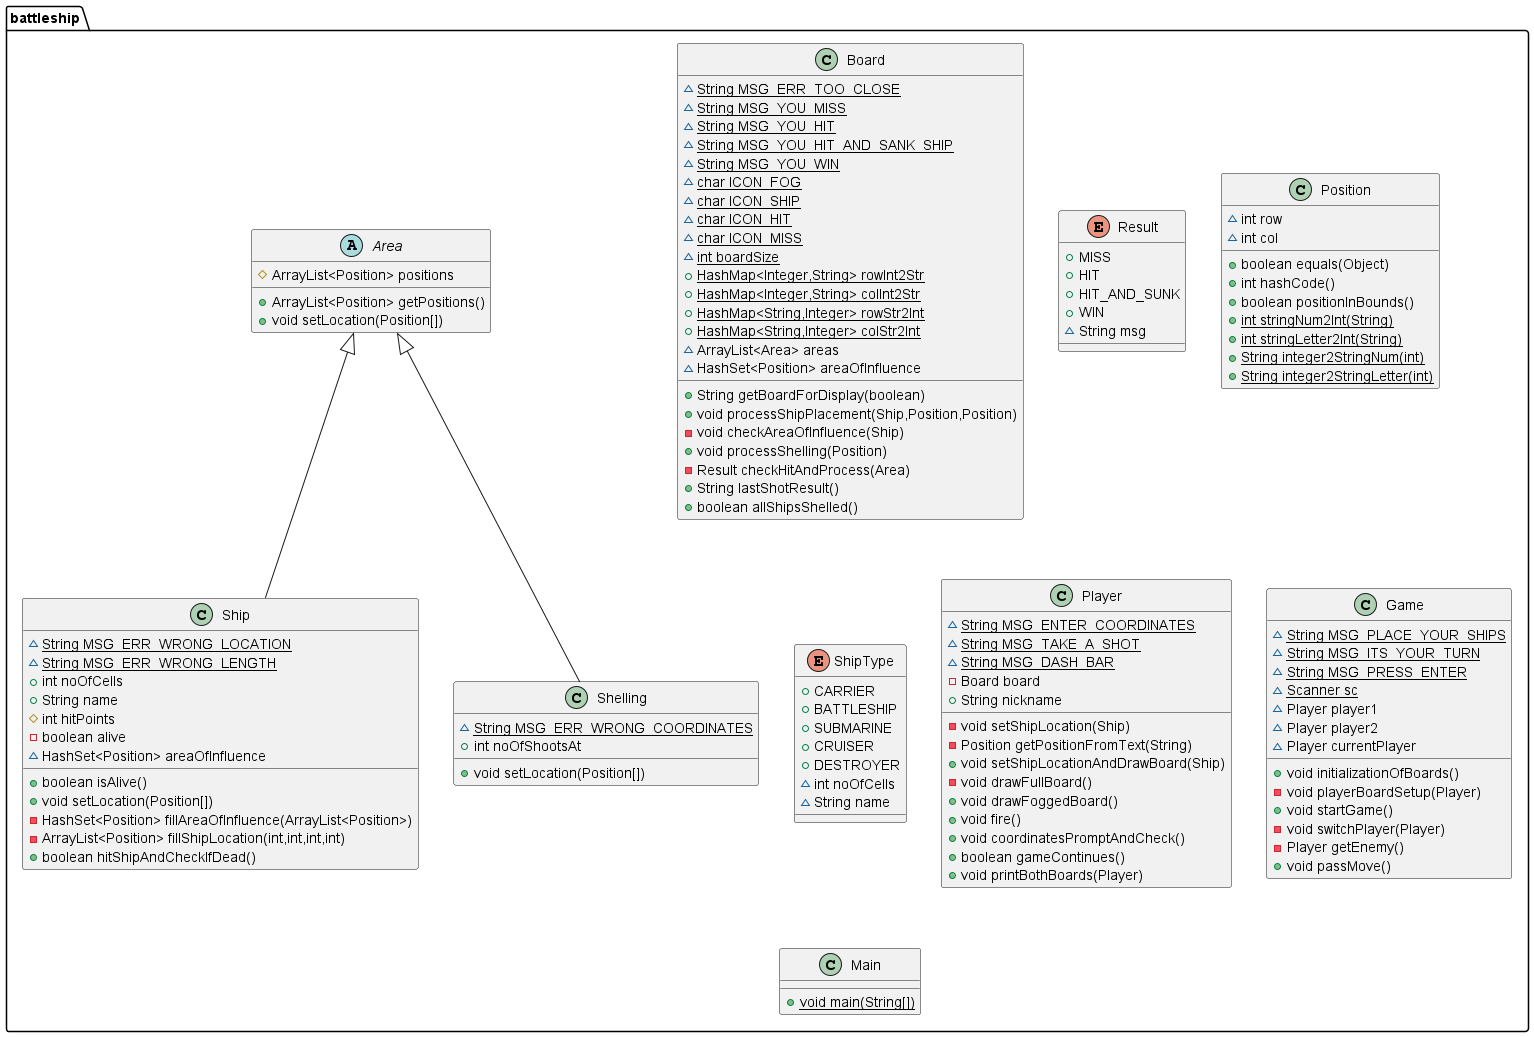
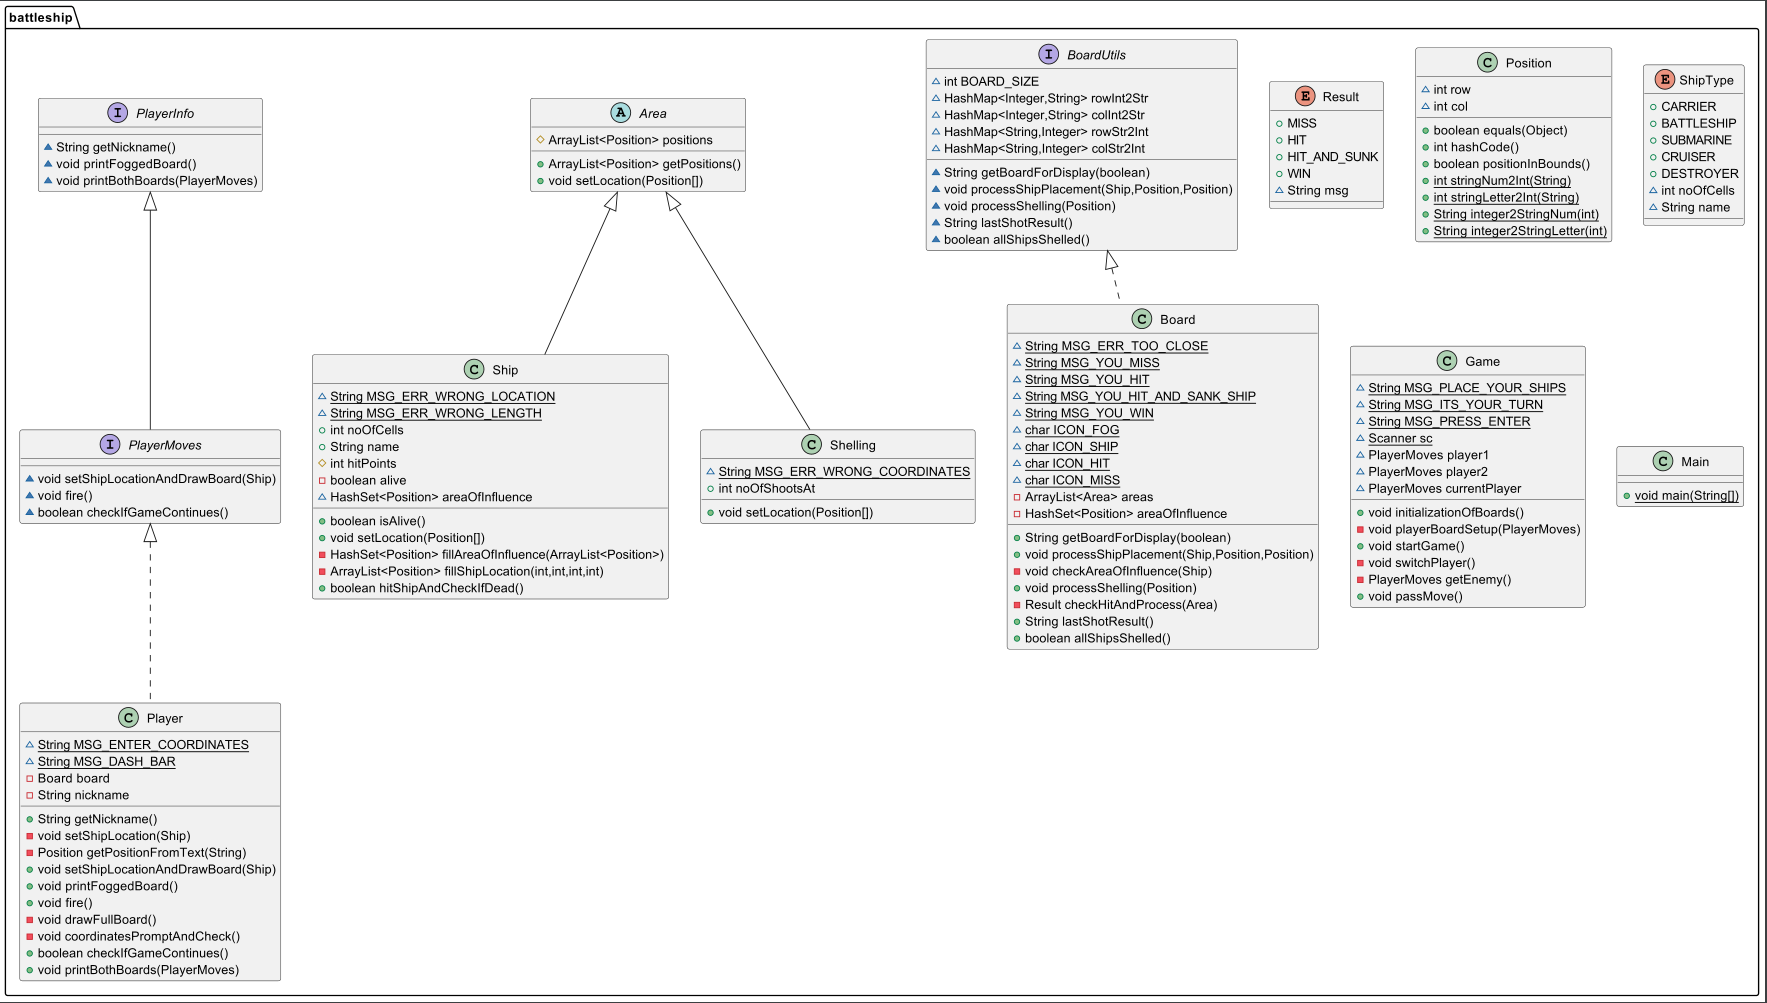
Battleship - Stage 5/5: Friend or foe v5.003 * interfaces introduction for Board and Player classes * diagram update

diff --git a/task/src/battleship/Board.java b/task/src/battleship/Board.java
@@ -2,7 +2,47 @@ package battleship;
 
 import java.util.*;
 
-public class Board {
+interface BoardUtils {
+    int BOARD_SIZE = 10;
+
+    HashMap<Integer, String> rowInt2Str = new HashMap<>() {
+        {
+            for (int i = 0; i < BOARD_SIZE; i++) {
+                put(i, String.valueOf((char) (i + 'A')));
+            }
+        }
+    };
+    HashMap<Integer, String> colInt2Str = new HashMap<>() {
+        {
+            for (int i = 0; i < BOARD_SIZE; i++) {
+                put(i, String.valueOf(i + 1));
+            }
+        }
+    };
+
+    HashMap<String, Integer> rowStr2Int = new HashMap<>() {
+        {
+            for (int i = 0; i < BOARD_SIZE; i++) {
+                put(String.valueOf((char) (i + 'A')), i);
+            }
+        }
+    };
+    HashMap<String, Integer> colStr2Int = new HashMap<>() {
+        {
+            for (int i = 0; i < BOARD_SIZE; i++) {
+                put(String.valueOf(i + 1), i);
+            }
+        }
+    };
+
+    String getBoardForDisplay(boolean fog);
+    void processShipPlacement(Ship ship, Position beginning, Position end);
+    void processShelling(Position coordinates);
+    String lastShotResult();
+    boolean allShipsShelled();
+}
+
+public class Board implements BoardUtils {
 
     //------------------------------------------------------------------------------------------------------------------
     //--STATICS---------------------------------------------------------------------------------------------------------
@@ -17,43 +57,11 @@ public class Board {
     final static char ICON_HIT = 'X';
     final static char ICON_MISS = 'M';
 
-    static final int BOARD_SIZE = 10;
-
-    public static final HashMap<Integer, String> rowInt2Str = new HashMap<>() {
-        {
-            for (int i = 0; i < BOARD_SIZE; i++) {
-                put(i, String.valueOf((char) (i + 'A')));
-            }
-        }
-    };
-    public static final HashMap<Integer, String> colInt2Str = new HashMap<>() {
-        {
-            for (int i = 0; i < BOARD_SIZE; i++) {
-                put(i, String.valueOf(i + 1));
-            }
-        }
-    };
-
-    public static final HashMap<String, Integer> rowStr2Int = new HashMap<>() {
-        {
-            for (int i = 0; i < BOARD_SIZE; i++) {
-                put(String.valueOf((char) (i + 'A')), i);
-            }
-        }
-    };
-    public static final HashMap<String, Integer> colStr2Int = new HashMap<>() {
-        {
-            for (int i = 0; i < BOARD_SIZE; i++) {
-                put(String.valueOf(i + 1), i);
-            }
-        }
-    };
-
     //-----------------------------------------------------------------------------------------------------------------
     //--Main stuff -------------------------------------------------------------------------------------------
     //------------------------------------------------------------------------------------------------------------------
-    ArrayList<Area> areas;
-    HashSet<Position> areaOfInfluence;
+    private final ArrayList<Area> areas;
+    private final HashSet<Position> areaOfInfluence;
 
 
     Board() {
@@ -61,6 +69,7 @@ public class Board {
         areaOfInfluence = new HashSet<>();
     }
 
+    @Override
     public String getBoardForDisplay(boolean fog) {
 
         char[][] display = new char[Board.BOARD_SIZE][Board.BOARD_SIZE];
@@ -107,6 +116,7 @@ public class Board {
         return output.toString();
     }
 
+    @Override
     public void processShipPlacement(Ship ship, Position beginning, Position end) {
         ship.setLocation(new Position[]{beginning, end});
         checkAreaOfInfluence(ship);
@@ -122,6 +132,7 @@ public class Board {
         }
     }
 
+    @Override
     public void processShelling(Position coordinates) {
         List<Shelling> location = areas.stream()
                 .filter(a -> a instanceof Shelling)
@@ -160,11 +171,12 @@ public class Board {
         return Result.MISS;
     }
 
-
+    @Override
     public String lastShotResult() {
         return checkHitAndProcess(areas.get(areas.size() - 1)).msg;
     }
 
+    @Override
     public boolean allShipsShelled() {
         return areas.stream().filter(a -> a instanceof Ship).noneMatch(s -> ((Ship) s).isAlive());
     }

diff --git a/task/src/battleship/Player.java b/task/src/battleship/Player.java
@@ -2,13 +2,30 @@ package battleship;
 
 import java.util.Scanner;
 
-public class Player {
+interface PlayerInfo {
+    String getNickname();
+    void printFoggedBoard();
+    void printBothBoards(PlayerMoves enemy);
+}
+
+interface PlayerMoves extends PlayerInfo {
+    void setShipLocationAndDrawBoard(Ship ship);
+    void fire();
+    boolean checkIfGameContinues();
+}
+
+public class Player implements PlayerMoves {
     static final String MSG_ENTER_COORDINATES = "Enter the coordinates of the %s (%d cells):";
     static final String MSG_DASH_BAR = "---------------------";
 
 
-    private final Board board;
-    public final String nickname;
+    private final BoardUtils board;
+    private final String nickname;
+
+    @Override
+    public String getNickname() {
+        return nickname;
+    }
 
     Player(String name) {
         this.board = new Board();
@@ -38,46 +55,51 @@ public class Player {
         );
     }
 
+    @Override
     public void setShipLocationAndDrawBoard(Ship ship) {
         setShipLocation(ship);
         drawFullBoard();
     }
 
-    private void drawFullBoard() {
-        System.out.println(board.getBoardForDisplay(false));
-    }
-
-    public void drawFoggedBoard() {
+    @Override
+    public void printFoggedBoard() {
         System.out.println(board.getBoardForDisplay(true));
     }
 
-
+    @Override
     public void fire() {
         coordinatesPromptAndCheck();
         String result = board.lastShotResult();
         System.out.println(result);
     }
 
+    private void drawFullBoard() {
+        System.out.println(board.getBoardForDisplay(false));
+    }
+
+
     // Uncomment the below code to have a chance to correct fire when incorrect location was set
-    public void coordinatesPromptAndCheck() {
+    private void coordinatesPromptAndCheck() {
 //        while (true) {
-            try {
-                String coordinates = Game.sc.nextLine().trim();
-                Position position = getPositionFromText(coordinates);
-                board.processShelling(position);
+        try {
+            String coordinates = Game.sc.nextLine().trim();
+            Position position = getPositionFromText(coordinates);
+            board.processShelling(position);
 //                break;
-            } catch (IllegalArgumentException e) {
-                //System.out.println(e.getMessage());
-            }
+        } catch (IllegalArgumentException e) {
+            //System.out.println(e.getMessage());
+        }
 //        }
     }
 
-    public boolean gameContinues() {
+    @Override
+    public boolean checkIfGameContinues() {
         return !board.allShipsShelled();
     }
 
-    public void printBothBoards(Player enemy) {
-        enemy.drawFoggedBoard();
+    @Override
+    public void printBothBoards(PlayerMoves enemy) {
+        enemy.printFoggedBoard();
         System.out.println(MSG_DASH_BAR);
         drawFullBoard();
     }

diff --git a/task/src/battleship/Game.java b/task/src/battleship/Game.java
@@ -9,9 +9,9 @@ public class Game {
     static final String MSG_PRESS_ENTER = "Press Enter and pass the move to another player\n...";
     static final Scanner sc = new Scanner(System.in);
 
-    Player player1;
-    Player player2;
-    Player currentPlayer;
+    PlayerMoves player1;
+    PlayerMoves player2;
+    PlayerMoves currentPlayer;
 
     Game() {
         player1 = new Player("Player 1");
@@ -27,9 +27,9 @@ public class Game {
         playerBoardSetup(player2);
     }
 
-    private void playerBoardSetup(Player player) {
-        System.out.printf(MSG_PLACE_YOUR_SHIPS + "\n", player.nickname);
-        player.drawFoggedBoard();
+    private void playerBoardSetup(PlayerMoves player) {
+        System.out.printf(MSG_PLACE_YOUR_SHIPS + "\n", player.getNickname());
+        player.printFoggedBoard();
         player.setShipLocationAndDrawBoard(new Ship(ShipType.CARRIER));
         player.setShipLocationAndDrawBoard(new Ship(ShipType.BATTLESHIP));
         player.setShipLocationAndDrawBoard(new Ship(ShipType.SUBMARINE));
@@ -39,10 +39,10 @@ public class Game {
 
     public void startGame() {
         // Game goes until one player wins
-        while (player1.gameContinues() && player2.gameContinues()){
+        while (player1.checkIfGameContinues() && player2.checkIfGameContinues()){
             passMove();
             currentPlayer.printBothBoards(getEnemy());
-            System.out.printf(MSG_ITS_YOUR_TURN + "\n\n", currentPlayer.nickname);
+            System.out.printf(MSG_ITS_YOUR_TURN + "\n\n", currentPlayer.getNickname());
             getEnemy().fire();
             switchPlayer();
         }
@@ -53,7 +53,7 @@ public class Game {
         this.currentPlayer = getEnemy();
     }
 
-    private Player getEnemy() {
+    private PlayerMoves getEnemy() {
         return currentPlayer == player1 ? player2 : player1;
     }
 
